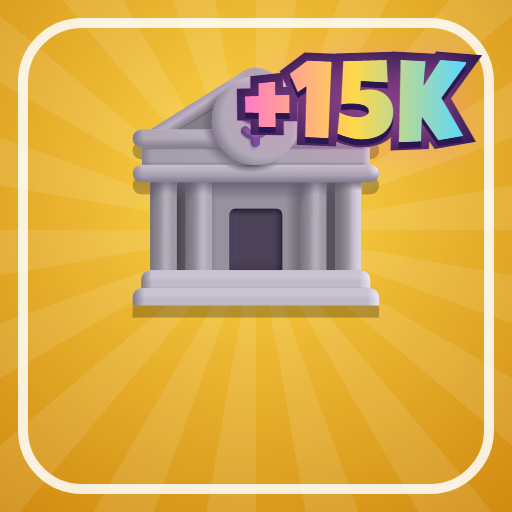
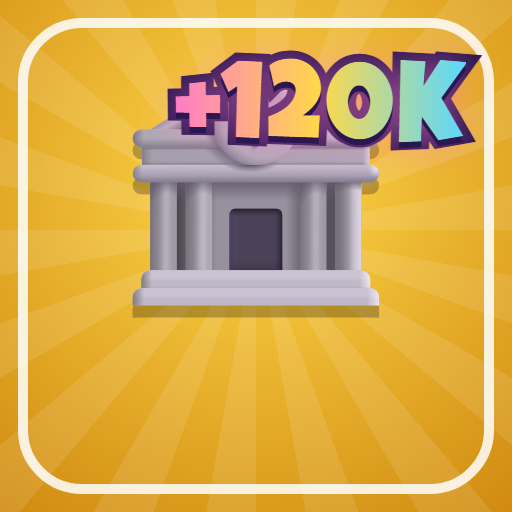
feat(monetization): conecta Promocao, Tesouro de Cash e Coleta Automatica
Itens criados na Roblox via Open Cloud com icone. Pacotes de Cash tiveram descricao e
icone atualizados para os novos valores. Todos os IDs do Config agora estao preenchidos,
entao o teste passa mesmo com REQUIRE_IDS=1.

Changed region(s): [[0.3125, 0.0938, 0.8125, 0.3125]]

diff --git a/README.md b/README.md
@@ -304,7 +304,7 @@ Dashboard com **exatamente** o nome e o preço abaixo e cole o ID no campo `id` 
 
 ### IDs criados na Roblox
 
-Todos os produtos e passes foram criados via Open Cloud (MCP do Studio) com ícone próprio
+Todos os 23 produtos e 5 passes foram criados via Open Cloud (MCP do Studio) com ícone próprio
 (`assets/store`) e já estão no `Config.luau`.
 
 | Chave | ID |
@@ -334,6 +334,9 @@ Todos os produtos e passes foram criados via Open Cloud (MCP do Studio) com íco
 | `DoubleTraining` | 2079356260 |
 | `VIP` | 2079656255 |
 | `ExtraSlots` | 2079332259 |
+| `Sale50` | 3730315517 |
+| `CashXL` | 3730315525 |
+| `AutoCollect` | 2078582292 |
 
 ### Como o recibo é processado
 
